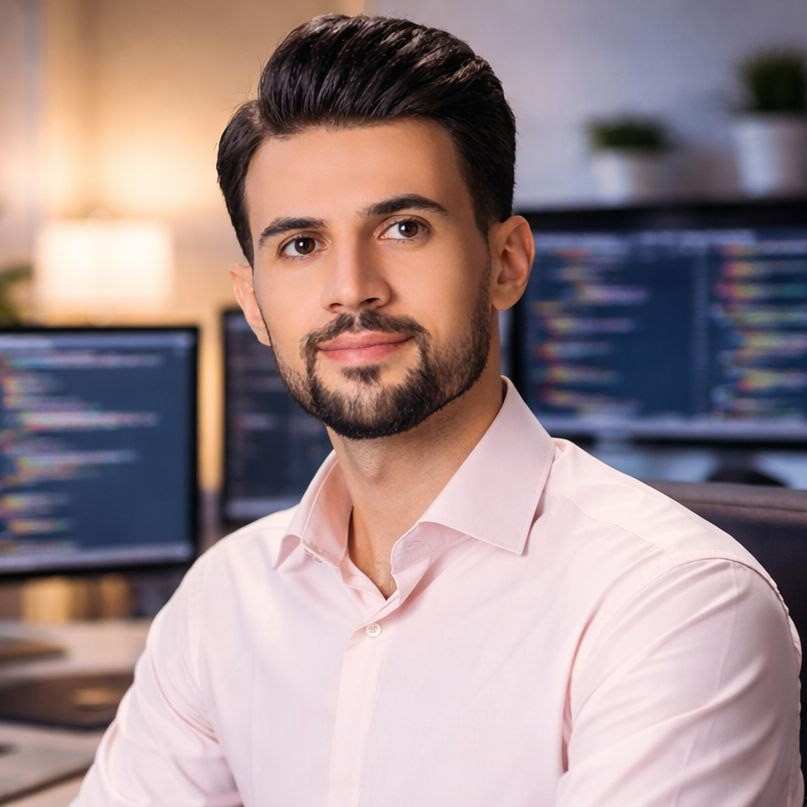
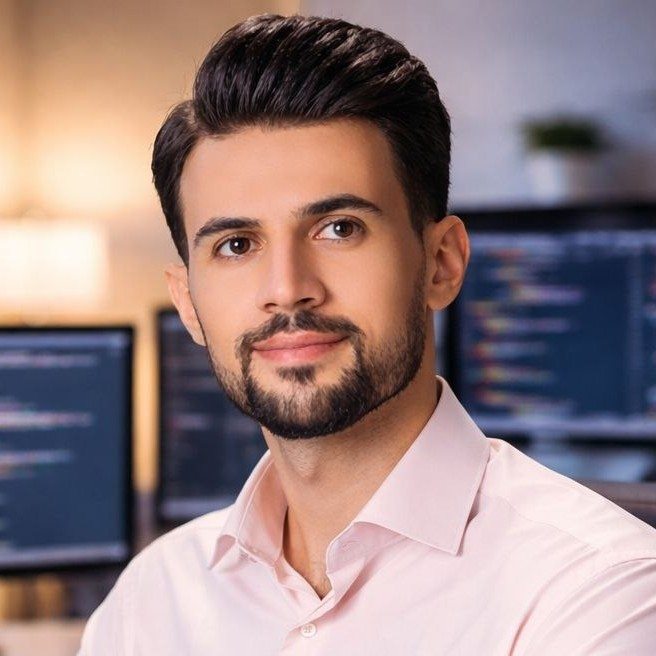
Completion of the project

diff --git a/src/components/profileCard/ProfileCard.tsx b/src/components/profileCard/ProfileCard.tsx
@@ -61,7 +61,7 @@ export const ProfileCard: FC = () => {
         </div>
         <div className="flex items-center gap-3 text-gray-600 dark:text-slate-400">
           <Briefcase className="w-4 h-4 text-red-500" />
-          <span className="text-sm">Frontend Developer</span>
+          <span className="text-sm">Senior Frontend Developer</span>
         </div>
         <div className="flex items-center gap-3 text-gray-600 dark:text-slate-400">
           <GraduationCap className="w-4 h-4 text-red-500" />

diff --git a/src/components/sections/passion/Passion.tsx b/src/components/sections/passion/Passion.tsx
@@ -19,7 +19,7 @@ export const PassionSection: FC = () => {
               <Code2 className="w-6 h-6 text-white" />
             </div>
             <h3 className="text-lg font-semibold text-gray-900 dark:text-white mb-2">
-              Frontend Development
+              Senior Frontend Development
             </h3>
             <p className="text-gray-600 dark:text-slate-400 text-sm mb-4">
               Crafting responsive and performant interfaces with modern tools.
